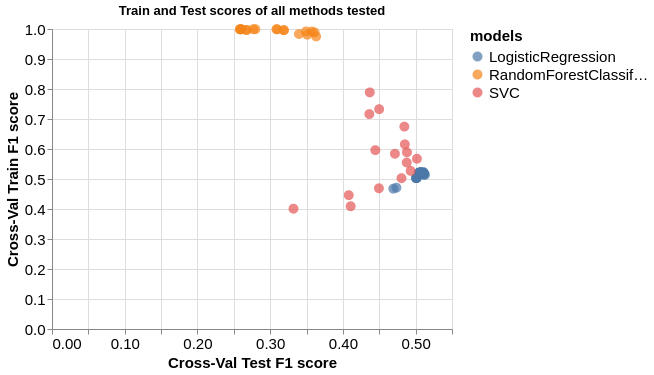
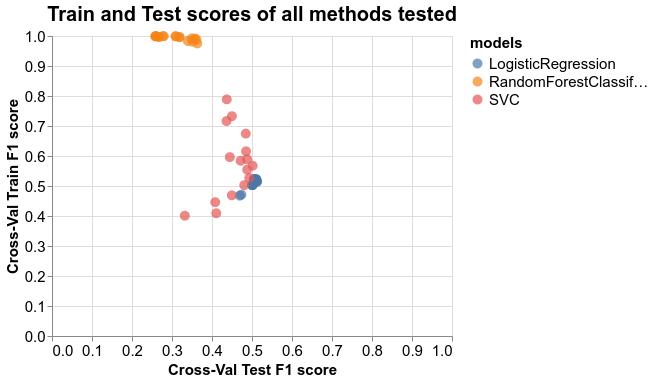
Added appendix and moved table 1 there.
Additionally changed the scale of training_report plot and made
the font-sizes larger

diff --git a/src/ml_analysis.py b/src/ml_analysis.py
@@ -363,8 +363,12 @@ def generate_csv_and_figure_reports(arr, csv_filepath, figure_filepath):
 
     # Saving figure
     alt.Chart(figure_report).mark_circle(size=100).encode(
-        x = alt.X('test_scores', axis = alt.Axis(title='Cross-Val Test F1 score')),
-        y = alt.Y('train_scores',  axis = alt.Axis(title='Cross-Val Train F1 score')),
+        x = alt.X('test_scores',
+            axis = alt.Axis(title='Cross-Val Test F1 score'),
+            scale = alt.Scale(domain = (0., 1.))),
+        y = alt.Y('train_scores',
+            axis = alt.Axis(title='Cross-Val Train F1 score'),
+            scale = alt.Scale(domain=(0., 1.))),
         color = 'models').properties(
         title = 'Train and Test scores of all methods tested').\
     configure_axis(
@@ -373,8 +377,8 @@ def generate_csv_and_figure_reports(arr, csv_filepath, figure_filepath):
     ).\
     configure_legend(labelFontSize = 15,
                      titleFontSize=15).\
+    configure_title(fontSize=20).\
     save(figure_filepath)
-
     # Saving confusion matrix
     save_confusion_matrix(names, cms, './reports/confusion_matrix.png')
 
